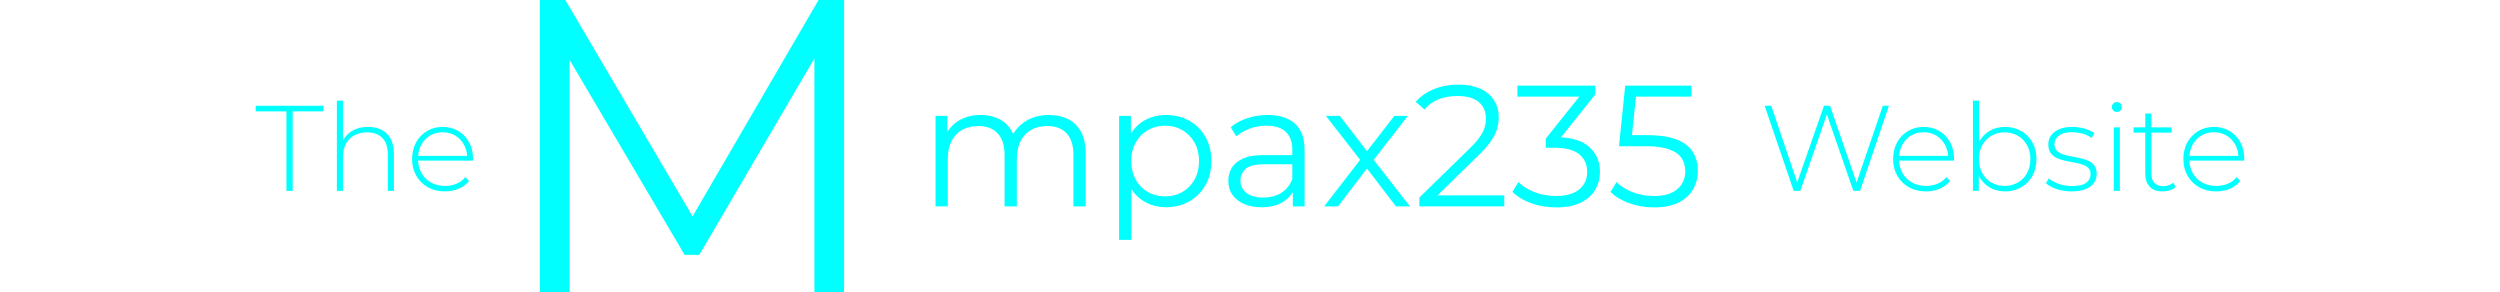
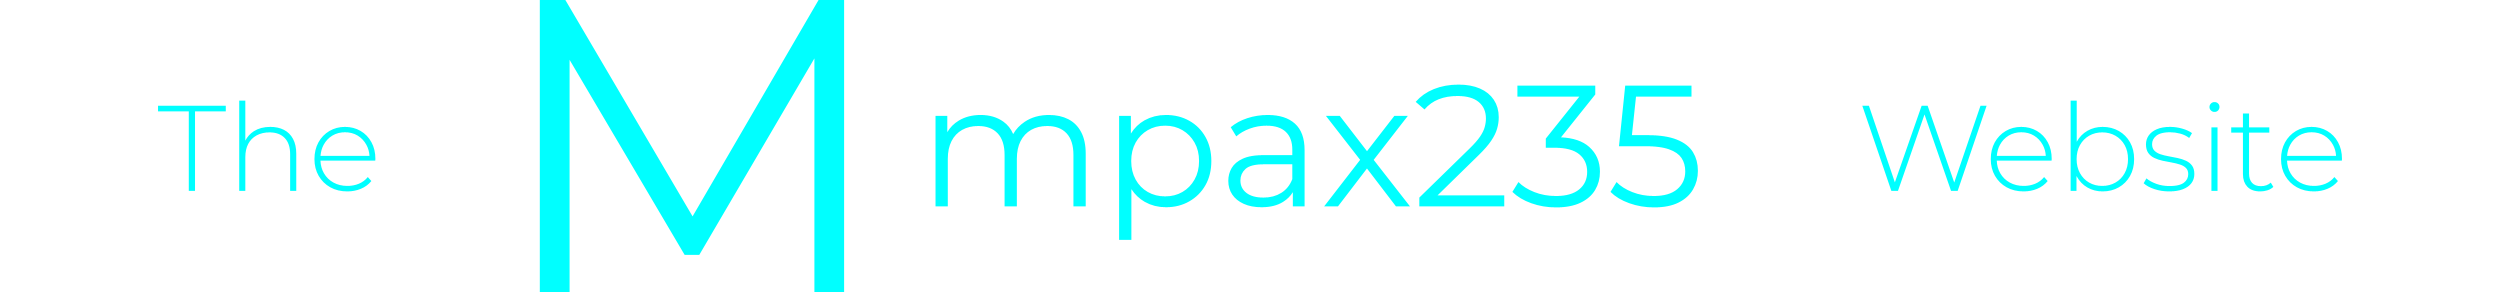
fix major stuff

Changed region(s): [[0.7176, 0.3699, 0.936, 0.6781], [0.0624, 0.339, 0.1872, 0.6473]]

diff --git a/blogposts/bedrocklimits.html b/blogposts/bedrocklimits.html
@@ -430,21 +430,21 @@
                 <div class="gallerystuff">
                     <div class="galleryitem">
                         <div class="gallerycontainer">
-                            <a href="../assets/images/blog/bedrocklimits/fringelandsxaxis090alpha.png"><img src="../assets/images/blog/bedrocklimits/fringelandsxaxis090alpha.png"></a>
+                            <a href="../assets/images/blog/bedrocklimits/fringelandsxaxis090alpha.png"><img id="galleryimage" src="../assets/images/blog/bedrocklimits/fringelandsxaxis090alpha.png"></a>
                             <br>
                             <a>The Fringe Lands generating beyond 12,561,029 blocks on the X axis in Pocket Edition 0.9.0 alpha.</a>
                         </div>
                     </div>
                     <div class="galleryitem">
                         <div class="gallerycontainer">
-                            <a href="../assets/images/blog/bedrocklimits/frngelandsbreakdownxaxis090alpha.png"><img src="../assets/images/blog/bedrocklimits/fringelandsbreakdownxaxis090alpha.png"></a>
+                            <a href="../assets/images/blog/bedrocklimits/frngelandsbreakdownxaxis090alpha.png"><img id="galleryimage" src="../assets/images/blog/bedrocklimits/fringelandsbreakdownxaxis090alpha.png"></a>
                             <br>
                             <a>The Fringe Lands breaking down beyond 12,562,277 blocks on the X axis in Pocket Edition 0.9.0 alpha. (notice a village generating with tall foundations)</a>
                         </div>
                     </div>
                     <div class="galleryitem">
                         <div class="gallerycontainer">
-                            <a href="../sources/blog/bedrocklimits/farlandsgone090alpha.png"><img src="../assets/images/blog/bedrocklimits/farlandsgone090alpha.png"></a>
+                            <a href="../sources/blog/bedrocklimits/farlandsgone090alpha.png"><img id="galleryimage" src="../assets/images/blog/bedrocklimits/farlandsgone090alpha.png"></a>
                             <br>
                             <a>Far Lands not generating anymore beyond 12,758,545 blocks on the X axis in Pocket Edition 0.9.0 alpha.</a>
                         </div>

diff --git a/assets/css/index.css b/assets/css/index.css
@@ -265,6 +265,10 @@ p {
     .gallerystuff {
         display: flex;
     }
+
+    .stats {
+        display: flex !important;
+    }
 }
 
 p {
@@ -329,10 +333,10 @@ td, th {
     background-color: #1111115e;
     width: 231px;
     margin: 5px;
+    display: flex;
     backdrop-filter: blur(7px);
     border: 1px solid rgba(0, 255, 255, 0.18);
     border-radius: 12px;
-    display: flex;
     transition: 0.2s ease-in-out;
 }
 
@@ -363,7 +367,7 @@ td, th {
 
 .stats {
     text-align: center;
-    display: flex;
+    display: block;
     justify-content: center;
     gap: 20px;
 }
@@ -442,6 +446,18 @@ td, th {
 
 .columninnertext h5 {
     font-weight: normal;
+}
+
+.createdon {
+    padding-bottom: 10px;
+}
+
+.publishedon {
+    padding-bottom: 10px;
+}
+
+.visits {
+    padding-bottom: 10px;
 }
 
 /* PAGES */

diff --git a/assets/iframes/footer.html b/assets/iframes/footer.html
@@ -7,7 +7,7 @@
     </head>
     <body>
         <div class="footer">
-            <a>2025 mpax235</a>
+            <a>2024-2025 mpax235</a>
             <a href='https://www.free-website-hit-counter.com'>
                 <img id="counter" src='https://www.free-website-hit-counter.com/zc.php?d=9&id=1497&s=8' border='0' alt='Free Website Hit Counter'>
             </a>

diff --git a/assets/iframes/footer2.html b/assets/iframes/footer2.html
@@ -7,7 +7,7 @@
     </head>
     <body>
         <div class="footer">
-            <a>2025 mpax235</a>
+            <a>2024-2025 mpax235</a>
         </div>
     </body>
 </html>

diff --git a/README.md b/README.md
@@ -1,9 +1,7 @@
 <div class="header">
-  <h3 align="center">The</h3>
   <p align="center">
     <img style="height: 64px" src="assets/images/thempax235website.png">
   </p>
-  <h3 align="center">Website</h3>
 </div>
 <hr>
 The official website of mpax235!
